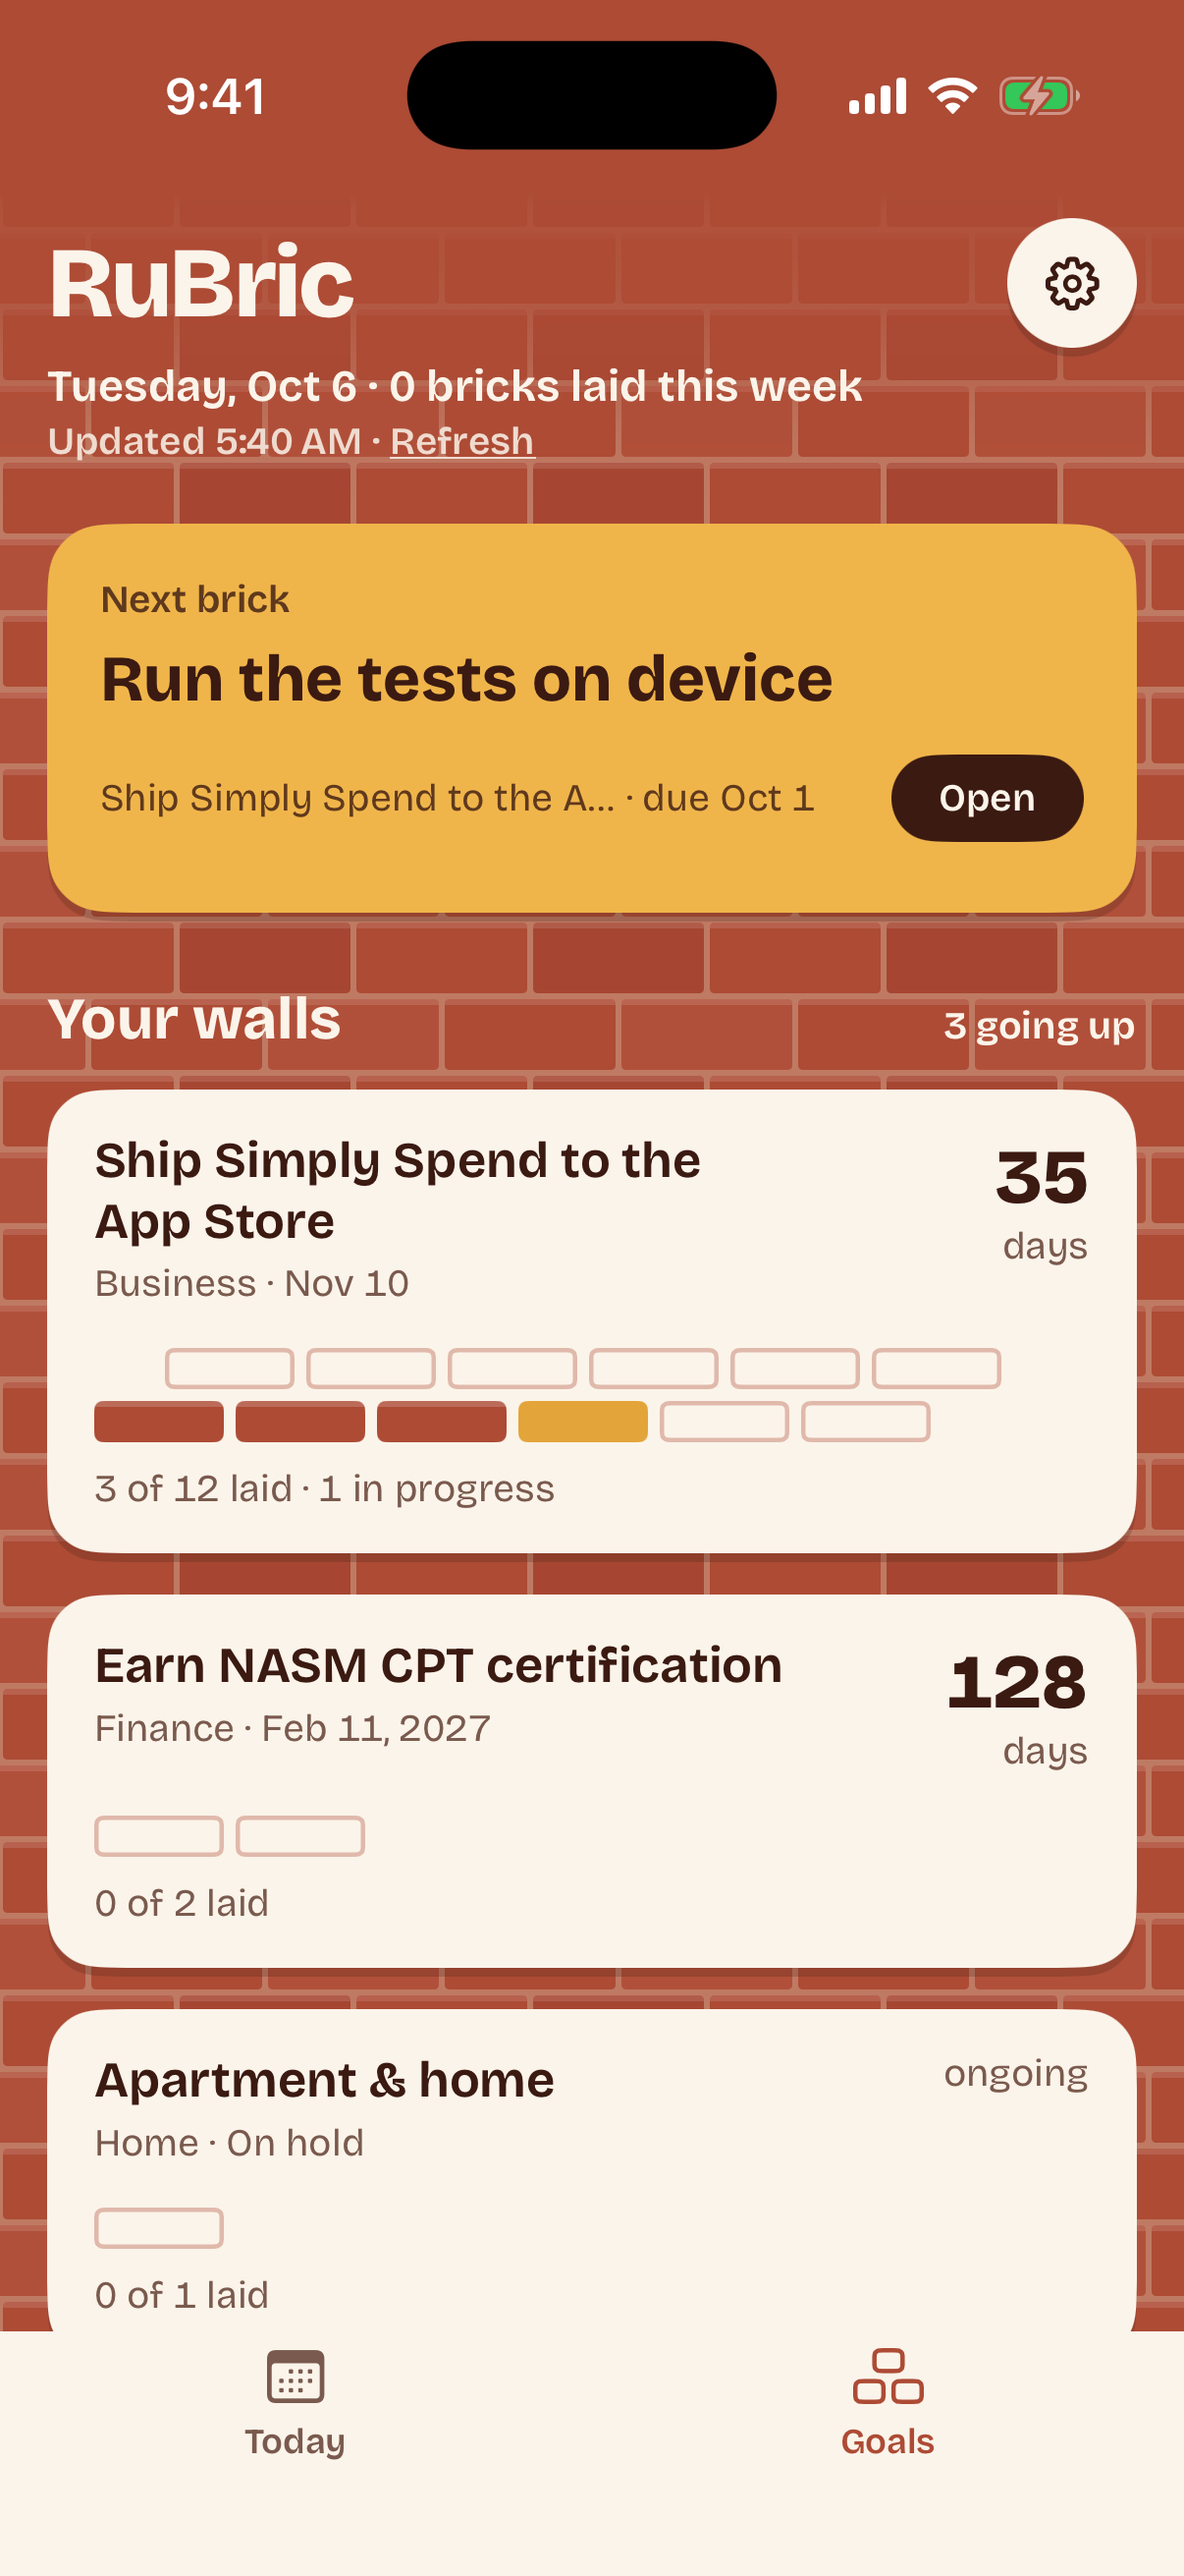
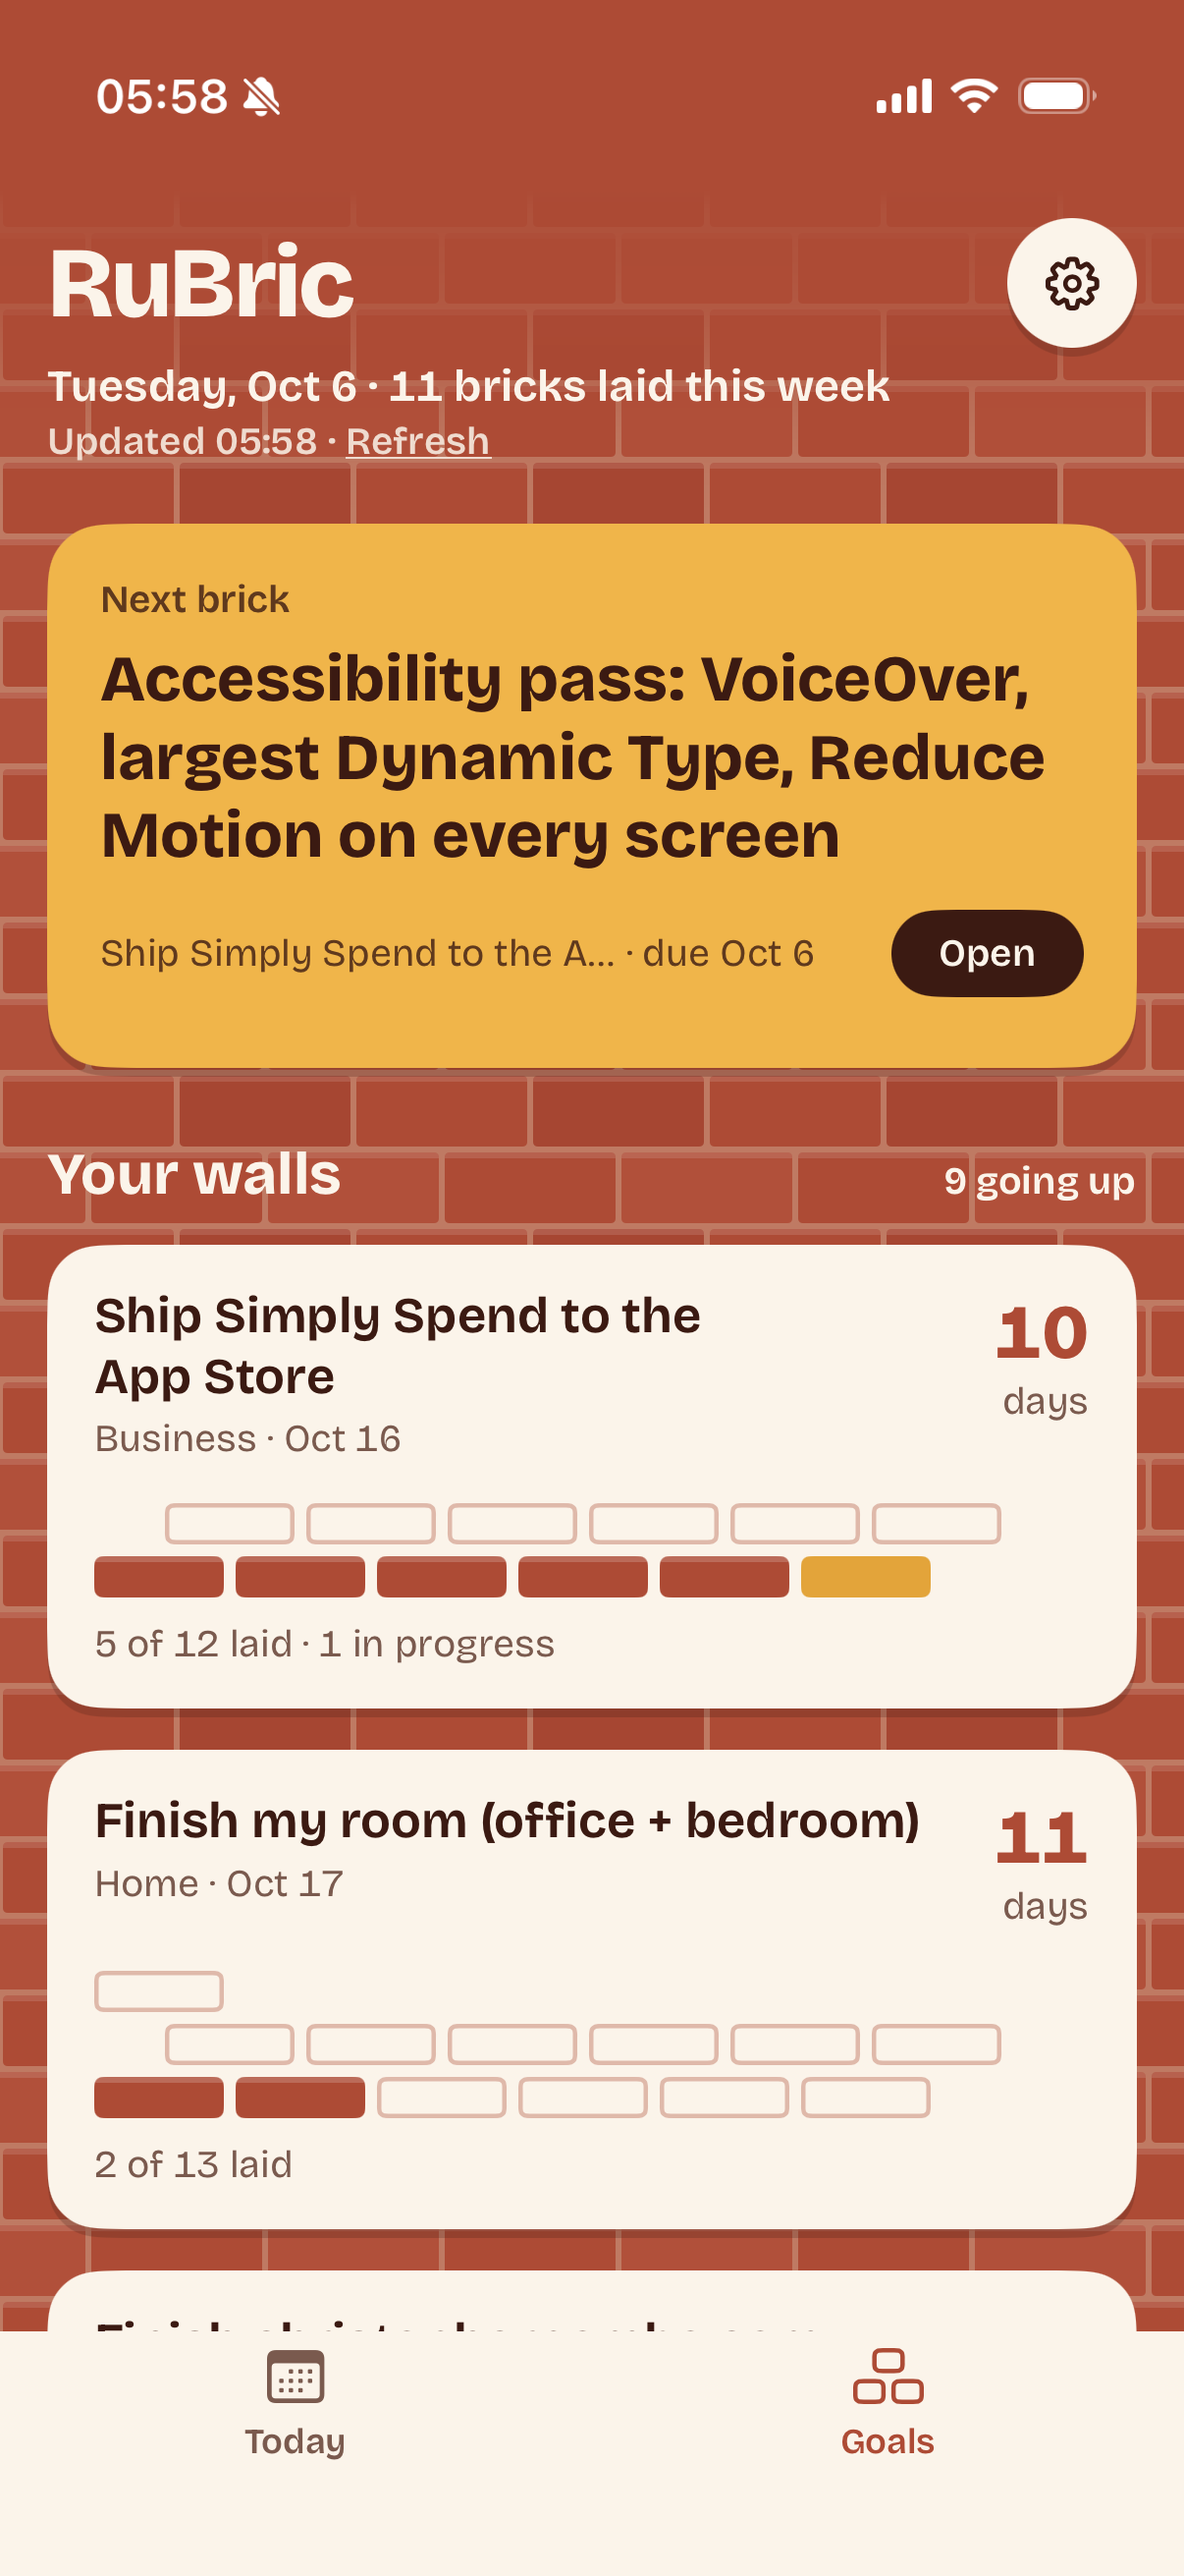
Swap RuBric's goals screenshot and add the Today tab
01-goals is now a real-device capture of the walls overview, and
03-today (the Today dashboard) replaces 03-completed. 02-goal-detail
stays as is. Two of the three now show real data, so the "demo data"
note comes off the detail page, and 03's alt text describes the Today
tab.

diff --git a/src/data/project-screenshot-alts.ts b/src/data/project-screenshot-alts.ts
@@ -6,6 +6,6 @@ export const projectScreenshotAlts: Record<string, string> = {
   "simply-spend/03-category-breakdown": "Simply Spend's spending-by-category breakdown for the month",
   "rubric/01-goals": "RuBric's goals screen, with each goal drawn as a brick wall of its tasks",
   "rubric/02-goal-detail": "RuBric's goal detail, with a timeline from start to target date",
-  "rubric/03-completed":
-    "RuBric's goal walls scrolled down to the Completed section, with a finished goal's full brick wall",
+  "rubric/03-today":
+    "RuBric's Today tab: this week's mileage, next duty, open tasks, the body comp test, the race countdown, and the morning brief",
 };

diff --git a/src/content/projects/rubric.md b/src/content/projects/rubric.md
@@ -18,5 +18,3 @@ I track every goal and task in Notion, but a database doesn't show progress. RuB
 **How it's built.** Swift 6 and SwiftUI, with SwiftData as an offline cache that the widgets share through an App Group. The access token lives in the Keychain, and the app is read-only, so Notion and Google stay the source of truth. I built it with Claude Code.
 
 **The look.** A warm brick-red "Fired" theme with paper cards, Bricolage Grotesque type, and a custom brick-wall progress component.
-
-*Screenshots use the app's demo data.*
